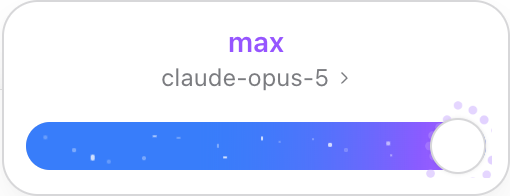
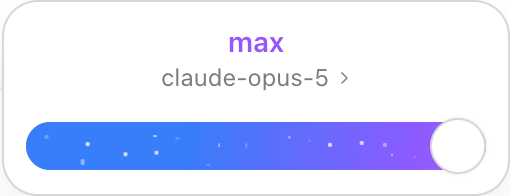
fix: 完善 Codex 选择器的切换与关闭交互
选中模型后保留弹层并收缩回思考强度面板；模型列表入口显示模型及当前档位，滑杆入口固定显示“选择强度”。

调整圆胶囊悬停背景与各控件光标，补齐关闭动画；点击档位吸附 300ms，拖动滑块吸附 150ms，最高档位仅在切入时播放粒子扩散。

消除提交状态置灰和档位文字重新淡入，保留本地档位直至宿主确认，避免延迟投影造成闪烁与回跳。

升级至 0.4.7，15 项逻辑测试、延迟确认与失败回退检查，以及隔离 DSH 页面回归通过。

diff --git a/src/picker.jsx b/src/picker.jsx
@@ -62,32 +62,47 @@ function EffortSlider({levels, effort, busy, onSelect, modelName, onModels}) {
   const [hoveredTick, setHoveredTick] = useState(null), [thumbHovered, setThumbHovered] = useState(false);
   const thumb = useRef(null);
   useThumbSpring(thumb, thumbHovered || isDragging);
-  const dragging = useRef(false), draft = useRef(index);
-  useEffect(() => {if (!dragging.current) {setIndex(Math.max(0, hostIndex)); draft.current = Math.max(0, hostIndex);}}, [hostIndex, busy]);
+  const dragging = useRef(false), draft = useRef(index), committed = useRef(null);
+  useEffect(() => {
+    if (dragging.current || busy || committed.current !== null && hostIndex !== committed.current) return;
+    committed.current = null;
+    setIndex(Math.max(0, hostIndex)); draft.current = Math.max(0, hostIndex);
+  }, [hostIndex, busy]);
   const selected = levels[index];
   const highest = levels.length > 1 && index === levels.length - 1 && selected.id !== 'off' && selected.id !== undefined;
+  const wasHighest = useRef(highest), [burst, setBurst] = useState(false);
+  useEffect(() => {setBurst(highest && !wasHighest.current); wasHighest.current = highest;}, [highest]);
   const fraction = levels.length > 1 ? index / (levels.length - 1) : 0;
-  const commit = () => {if (levels[draft.current]?.id !== effort) onSelect(levels[draft.current].id);};
+  const commit = async () => {
+    const next = draft.current;
+    if (levels[next]?.id === effort) return;
+    committed.current = next;
+    if (!await onSelect(levels[next].id) && committed.current === next) {
+      committed.current = null;
+      setIndex(Math.max(0, hostIndex)); draft.current = Math.max(0, hostIndex);
+    }
+  };
   const title = dragging.current || hostIndex >= 0 ? selected.label : effort ?? 'Default';
   return <div className="dme-codex-effort" data-highest={highest || undefined} data-dragging={isDragging || undefined} data-minimum={index === 0 || undefined}>
     <button type="button" className="dme-model-link" onClick={onModels}>
-      <span className="dme-effort-title" aria-live="polite"><span key={title}>{title}</span></span>
+      <span className="dme-effort-title" aria-live="polite"><span>{title}</span></span>
       <span className="dme-current-model">{modelName}<Chevron/></span>
     </button>
     <div className="dme-slider" style={{'--dme-progress': fraction}}>
       <div className="dme-rail">
       <div className="dme-rail-fill"/>
-      {highest && <div className="dme-max-fill" aria-hidden="true"/>}
+      {highest && <div className="dme-max-fill" data-reveal={burst || undefined} aria-hidden="true"/>}
       <div className="dme-ticks" aria-hidden="true">{levels.map((level, n) => <i key={level.key} data-hovered={hoveredTick === n || undefined} data-filled={n <= index || undefined} style={{left: `${levels.length > 1 ? n / (levels.length - 1) * 100 : 0}%`}}/>)}</div>
       {highest && <div className="dme-particles" aria-hidden="true">{Array.from({length: 18}, (_, n) => <i key={n} style={{left: `${5 + (n * 37 % 89)}%`, top: `${20 + n * 23 % 60}%`, width: `${n % 5 === 0 ? 2.5 : 1.5}px`, height: `${n % 5 === 0 ? 2.5 : 1.5}px`, animationDelay: `${-n * .31}s`, animationDuration: `${2.4 + n % 4 * .6}s`}}/>)}</div>}
       </div>
-      {highest && <div className="dme-thumb-particles" aria-hidden="true">{Array.from({length: 16}, (_, n) => {
+      {highest && burst && <div className="dme-thumb-particles" aria-hidden="true">{Array.from({length: 16}, (_, n) => {
         const angle = n * Math.PI / 8 - Math.PI / 2, radius = n < 11 ? 34 : 24;
         return <i key={n} style={{'--spark-x': `${Math.cos(angle) * radius}px`, '--spark-y': `${Math.sin(angle) * radius}px`, animationDelay: `${n % 3 * 6}ms`}}/>;
       })}</div>}
       <div className="dme-slider-position" aria-hidden="true"><div ref={thumb} className="dme-slider-thumb"/></div>
       <input type="range" aria-label="思考强度" aria-valuetext={selected.label} min="0" max={levels.length - 1} step="1" value={index}
         disabled={busy || levels.length < 2}
+        style={{cursor: busy || levels.length < 2 ? 'default' : isDragging ? 'grabbing' : hoveredTick !== null ? 'pointer' : thumbHovered ? 'grab' : 'default'}}
         onPointerMove={e => {
           const bounds = e.currentTarget.getBoundingClientRect(), x = e.clientX - bounds.left;
           const tick = Math.round((x - 14) / (bounds.width - 28) * (levels.length - 1));
@@ -98,9 +113,14 @@ function EffortSlider({levels, effort, busy, onSelect, modelName, onModels}) {
           setHoveredTick(!overThumb && Math.abs(x - tickX) <= 8 ? tick : null);
         }}
         onPointerLeave={() => {setHoveredTick(null); setThumbHovered(false);}}
-        onPointerDown={e => {dragging.current = true; setDragging(true); e.currentTarget.setPointerCapture(e.pointerId);}}
+        onPointerDown={e => {
+          const bounds = thumb.current.getBoundingClientRect();
+          const fromThumb = e.clientX >= bounds.left - 3 && e.clientX <= bounds.right + 3;
+          dragging.current = fromThumb; setDragging(fromThumb);
+          e.currentTarget.setPointerCapture(e.pointerId);
+        }}
         onChange={e => {draft.current = Number(e.target.value); setIndex(draft.current); if (!dragging.current) commit();}}
-        onPointerUp={() => {dragging.current = false; setDragging(false); commit();}}
+        onPointerUp={() => {if (dragging.current) {dragging.current = false; setDragging(false); commit();}}}
         onPointerCancel={() => {dragging.current = false; setDragging(false); setIndex(Math.max(0, hostIndex)); draft.current = Math.max(0, hostIndex);}}
         onBlur={() => {if (dragging.current) {dragging.current = false; setDragging(false); commit();}}}/>
     </div>
@@ -110,34 +130,57 @@ function EffortSlider({levels, effort, busy, onSelect, modelName, onModels}) {
 export function CodexPicker({locked, available, directory, load, select}) {
   const state = useSyncExternalStore(fn => directory.subscribe(fn), () => directory.getSnapshot());
   const {choices, current, levels, effort, label} = pickerModel(state);
-  const [open, setOpen] = useState(false), [pane, setPane] = useState('root'), [query, setQuery] = useState('');
+  const [popupState, setPopupState] = useState('closed'), [pane, setPane] = useState('root'), [query, setQuery] = useState('');
+  const open = popupState === 'open', mounted = popupState !== 'closed';
+  const popupStateRef = useRef(popupState); popupStateRef.current = popupState;
   const [error, setError] = useState('');
   const trigger = useRef(null), panel = useRef(null), content = useRef(null), id = useId();
   const [height, setHeight] = useState(null);
   const busy = locked || state.pending !== null;
   const failures = state.failures ?? [];
   const loadError = state.error?.message;
-  const close = (focus = true) => {setOpen(false); if (focus) trigger.current?.focus();};
-  const position = usePopover(open, pane, trigger, panel, close);
+  const close = (focus = true) => {
+    if (popupStateRef.current !== 'open') return;
+    const style = getComputedStyle(panel.current);
+    panel.current.style.setProperty('--dme-close-opacity', style.opacity);
+    panel.current.style.setProperty('--dme-close-scale', new DOMMatrix(style.transform).a);
+    setPopupState('closing');
+    if (focus) trigger.current?.focus();
+  };
+  const position = usePopover(mounted, pane, trigger, panel, close);
+  useEffect(() => {
+    if (popupState !== 'closing') return;
+    const reduced = matchMedia('(prefers-reduced-motion: reduce)');
+    const finish = () => {if (reduced.matches) setPopupState('closed');};
+    finish(); reduced.addEventListener('change', finish);
+    return () => reduced.removeEventListener('change', finish);
+  }, [popupState]);
   useEffect(() => {if (available) load();}, [directory, available]);
   useEffect(() => {if (locked || !available) close(false);}, [locked, available]);
   const commit = async (selection, keepOpen = false) => {
     setError('');
     try {
       const result = await select(selection);
-      if (result?.ok === false) {setError(result.error.message); return;}
+      if (result?.ok === false) {setError(result.error.message); return false;}
       if (!keepOpen) close();
-    } catch (e) {setError(e.message);}
+      return true;
+    } catch (e) {setError(e.message); return false;}
   };
   const selectEffort = value => {
-    if (!current || busy) return;
-    commit({provider: current.provider, model: current.model.id,
+    if (!current || busy) return false;
+    return commit({provider: current.provider, model: current.model.id,
       ...(value === undefined ? {} : {reasoningEffort: value})}, true);
+  };
+  const selectModel = async choice => {
+    if (!await commit(modelSelection(choice), true) || popupStateRef.current !== 'open') return;
+    if (choice.model.reasoning) {setPane('root'); setQuery('');}
+    else close();
   };
   const modelPane = pane === 'models' || !levels.length;
   const visible = choices.filter(choice => `${choice.model.name} ${choice.model.id} ${choice.providerName}`.toLowerCase().includes(query.toLowerCase()));
   useLayoutEffect(() => {
-    if (!open) {setHeight(null); return;}
+    if (!mounted) {setHeight(null); return;}
+    if (!open) return;
     const measure = () => {
       const computed = getComputedStyle(panel.current);
       const padding = parseFloat(computed.paddingTop) + parseFloat(computed.paddingBottom)
@@ -157,7 +200,7 @@ export function CodexPicker({locked, available, directory, load, select}) {
     const observer = new ResizeObserver(measure);
     for (const element of content.current.querySelectorAll('.dme-codex-effort,.dme-model-header,.dme-model-list,.dme-picker-error')) observer.observe(element);
     return () => observer.disconnect();
-  }, [open, modelPane, choices.length, query, error, loadError, failures.length]);
+  }, [mounted, open, modelPane, choices.length, query, error, loadError, failures.length]);
   useLayoutEffect(() => {
     if (open && modelPane) content.current.querySelector('.dme-model-list').scrollTop = 0;
   }, [open, pane]);
@@ -192,11 +235,14 @@ export function CodexPicker({locked, available, directory, load, select}) {
   };
   return <>
     <button ref={trigger} type="button" className="dme-picker-trigger dme-picker-codex" aria-label={`选择模型 ${current?.model.name ?? ''} ${label}`.trim()}
-      aria-expanded={open} aria-controls={open ? id : undefined} aria-haspopup="dialog" disabled={busy || !available}
-      onClick={() => {setOpen(!open); setPane('root'); setQuery(''); setError(''); if (!open) load();}}>
-      <span>{current?.model.name ?? '选择模型'}</span>{label && <span className="dme-trigger-effort">{label}</span>}<Chevron/>
+      data-open={mounted || undefined} data-placeholder={mounted && !modelPane || undefined} aria-busy={state.pending !== null} aria-expanded={open} aria-controls={open ? id : undefined} aria-haspopup="dialog" disabled={locked || !available}
+      onClick={() => {open ? close(false) : setPopupState('open'); if (!open) {setPane('root'); setQuery(''); setError(''); load();}}}>
+      <span hidden={mounted && !modelPane}>{current?.model.name ?? '选择模型'}</span>{label && <span hidden={mounted && !modelPane} className="dme-trigger-effort">{label}</span>}
+      {mounted && !modelPane && <span className="dme-trigger-placeholder">选择强度</span>}<Chevron/>
     </button>
-    {open && createPortal(<div ref={panel} id={id} className="dme-picker-panel dme-picker-codex" role="dialog" aria-label="模型与思考强度"
+    {mounted && createPortal(<div ref={panel} id={id} className="dme-picker-panel dme-picker-codex" role="dialog" aria-label="模型与思考强度"
+      data-state={popupState} aria-busy={!locked && state.pending !== null} aria-hidden={!open} inert={!open}
+      onAnimationEnd={e => {if (e.target === e.currentTarget && e.animationName === 'dme-popup-out') setPopupState(state => state === 'closing' ? 'closed' : state);}}
       data-pane={modelPane ? 'models' : pane} style={{...(position ?? {visibility: 'hidden'}), ...(height === null ? {} : {height})}} onKeyDown={onKeyDown}>
       <div ref={content} className="dme-picker-content"><div className="dme-picker-views">
         <div className="dme-picker-pane dme-picker-root" data-active={!modelPane} aria-hidden={modelPane} inert={modelPane}>
@@ -211,7 +257,7 @@ export function CodexPicker({locked, available, directory, load, select}) {
           <div className="dme-model-list" role="menu" aria-label="模型">
             {visible.map(choice => <button type="button" key={JSON.stringify([choice.provider, choice.model.id])} role="menuitemradio"
               aria-label={choice.model.name} aria-description={choice.providerName || choice.provider}
-              aria-checked={choice.selected} disabled={busy} onClick={() => commit(modelSelection(choice))}>
+              aria-checked={choice.selected} disabled={busy} onClick={() => {setPane('models'); selectModel(choice);}}>
               <span className="dme-model-name">{choice.model.name}
                 <small>{choice.providerName || choice.provider}</small>
               </span>{choice.selected && <Check/>}

diff --git a/src/styles.css b/src/styles.css
@@ -14,15 +14,15 @@
 .dme-segmented{display:flex;gap:2px;border-radius:10px;background:color-mix(in srgb,currentColor 6%,transparent);padding:3px}.dme-segmented label{position:relative;cursor:pointer}.dme-segmented input{position:absolute;opacity:0;width:100%;height:100%;margin:0}.dme-segmented span{display:block;padding:7px 14px;border-radius:8px;font-size:13px}.dme-segmented input:checked+span{background:var(--ds-color-background-elevated,#fff);box-shadow:0 1px 4px #00000014}.dme-segmented input:focus-visible+span{outline:2px solid #387df8;outline-offset:1px}
 
 .dme-picker-trigger,.dme-picker-panel{--dmp-text:#161719;--dmp-muted:#7b7c80;--dmp-surface:#fff;--dmp-border:#d7d7d9;--dmp-hover:#f3f3f4;--dmp-track:#e9e9eb;--dmp-accent:#387dfa;box-sizing:border-box;color:var(--dmp-text);font-family:-apple-system,BlinkMacSystemFont,"Segoe UI",sans-serif}
-.dme-picker-trigger{display:inline-flex;align-items:center;gap:4px;max-width:360px;border:0;background:transparent;padding:4px 5px;font-size:13px;line-height:20px;cursor:default;border-radius:6px}.dme-picker-trigger>span:first-child{overflow:hidden;white-space:nowrap;text-overflow:ellipsis}.dme-picker-trigger .dme-chevron{transform:rotate(90deg);margin-left:2px;width:10px;height:10px;color:var(--dmp-muted)}.dme-trigger-effort{color:var(--dmp-muted);flex:none}.dme-picker-trigger:hover{background:var(--dmp-hover)}
+.dme-picker-trigger{display:inline-flex;align-items:center;gap:4px;max-width:360px;border:0;background:transparent;padding:4px 5px;font-size:13px;line-height:20px;cursor:pointer;border-radius:999px;padding:4px 10px;transition:background-color .12s ease}.dme-picker-trigger>span:first-child{overflow:hidden;white-space:nowrap;text-overflow:ellipsis}.dme-picker-trigger .dme-chevron{transform:rotate(90deg);margin-left:2px;width:10px;height:10px;color:var(--dmp-muted)}.dme-trigger-effort{color:var(--dmp-muted);flex:none}.dme-picker-trigger:not(:disabled):hover{background:var(--dmp-hover)}
 .dme-chevron,.dme-check{flex:none;fill:none;stroke:currentColor;stroke-linecap:round;stroke-linejoin:round;stroke-width:1.5}.dme-check{color:var(--dmp-muted)}
 .dme-picker-panel{position:fixed;z-index:1200;width:min(254px,calc(100vw - 24px));border:.5px solid var(--dmp-border);border-radius:18px;background:var(--dmp-surface);box-shadow:0 8px 18px #00000010;overflow:hidden;padding:8px;isolation:isolate}.dme-picker-content{display:flex;flex-direction:column;height:100%;min-height:0}.dme-picker-views{position:relative;flex:1;min-height:0;overflow:clip}.dme-picker-pane{position:absolute;inset:0 0 auto;opacity:1;translate:0}.dme-picker-models{height:100%;display:flex;flex-direction:column}.dme-picker-pane[data-active=false]{pointer-events:none;opacity:0}.dme-picker-root[data-active=false]{translate:0 -10px}.dme-picker-models[data-active=false]{translate:0 10px}.dme-model-header{flex:none}.dme-model-list{flex:1;min-height:0;overflow-y:auto;overscroll-behavior:contain;scrollbar-width:none}.dme-model-list::-webkit-scrollbar{display:none;width:0;height:0}
-.dme-picker-panel *{box-sizing:border-box}.dme-picker-panel button{color:inherit;font:inherit;cursor:default}.dme-picker-panel button:disabled,.dme-picker-trigger:disabled{cursor:default;opacity:.5}.dme-picker-panel button:focus-visible,.dme-picker-trigger:focus-visible{outline:2px solid var(--dmp-accent,#387dfa);outline-offset:1px}
+.dme-picker-panel *{box-sizing:border-box}.dme-picker-panel button{color:inherit;font:inherit;cursor:pointer}.dme-picker-panel button:disabled,.dme-picker-trigger:disabled{cursor:default;opacity:.5}.dme-picker-panel button:focus-visible,.dme-picker-trigger:focus-visible{outline:2px solid var(--dmp-accent,#387dfa);outline-offset:1px}
 .dme-codex-effort{padding:0 3px 2px}.dme-effort-title{text-align:center;color:var(--dmp-accent);font-size:14px;line-height:20px;font-weight:600}.dme-model-link{display:flex;flex-direction:column;align-items:center;justify-content:center;max-width:100%;margin:0 auto;padding:2px 8px;border:0;border-radius:6px;background:transparent;transition:background-color .12s ease}.dme-model-link:hover,.dme-model-link:focus-visible{background:var(--dmp-hover)}.dme-current-model{display:flex;align-items:center;justify-content:center;gap:3px;max-width:100%;font-size:12px;line-height:16px;color:var(--dmp-muted);white-space:nowrap;overflow:hidden;text-overflow:ellipsis}.dme-model-link .dme-chevron{width:8px;height:8px}
 .dme-slider{position:relative;height:28px;margin-top:10px;--dme-motion:.3s cubic-bezier(.23,1,.32,1)}.dme-rail{position:absolute;inset:2px 0;height:24px;border-radius:12px;background:var(--dmp-track);box-shadow:inset 0 0 0 .5px #00000014;overflow:hidden}.dme-rail-fill{position:absolute;inset:0 auto 0 0;width:calc(14px + (100% - 28px)*var(--dme-progress));border-radius:12px 0 0 12px;background:var(--dmp-accent);transition:width var(--dme-motion)}
 .dme-ticks{position:absolute;inset:0 14px;pointer-events:none}.dme-ticks i{position:absolute;top:50%;width:4px;height:4px;border-radius:50%;background:#b4b4b8;transform:translate(-50%,-50%);transition:transform .12s ease,filter .12s ease,background-color var(--dme-motion)}.dme-ticks i[data-filled]{background:#ffffff55}.dme-ticks i[data-hovered]{filter:brightness(.85);transform:translate(-50%,-50%) scale(2)}
 .dme-slider input{appearance:none;-webkit-appearance:none;position:absolute;inset:0;width:100%;height:28px;background:transparent;margin:0;cursor:default;touch-action:none;border:0;outline:none;border-radius:12px}.dme-slider input::-webkit-slider-runnable-track{height:24px;background:transparent}.dme-slider input::-webkit-slider-thumb{appearance:none;-webkit-appearance:none;width:28px;height:28px;margin-top:-2px;background:transparent;border:0;box-shadow:none}.dme-slider input::-moz-range-track{height:24px;background:transparent}.dme-slider input::-moz-range-thumb{width:28px;height:28px;background:transparent;border:0;box-shadow:none}.dme-slider input:focus-visible{outline:none}.dme-slider:has(input:focus-visible) .dme-slider-thumb{outline:2px solid var(--dmp-accent);outline-offset:0}.dme-slider input:disabled{cursor:default}.dme-codex-effort[data-dragging] .dme-slider{--dme-motion:.15s cubic-bezier(.23,1,.32,1);cursor:grabbing}.dme-codex-effort[data-dragging] .dme-slider input{cursor:grabbing}
-.dme-codex-effort[data-highest] .dme-effort-title{color:#9655ff}.dme-codex-effort[data-highest] .dme-rail-fill{width:100%}.dme-max-fill{position:absolute;inset:0;border-radius:12px;background:linear-gradient(100deg,#387dfa 8%,#387dfa 35%,#8e5aff 85%,#a567ff);mask-image:linear-gradient(90deg,transparent calc(var(--dme-reveal) - 120px),#000 var(--dme-reveal));animation:dme-max-reveal 2s both}.dme-codex-effort[data-highest] .dme-ticks{opacity:0}
+.dme-codex-effort[data-highest] .dme-effort-title{color:#9655ff}.dme-codex-effort[data-highest] .dme-rail-fill{width:100%}.dme-max-fill{position:absolute;inset:0;border-radius:12px;background:linear-gradient(100deg,#387dfa 8%,#387dfa 35%,#8e5aff 85%,#a567ff);mask-image:linear-gradient(90deg,transparent calc(var(--dme-reveal) - 120px),#000 var(--dme-reveal))}.dme-max-fill[data-reveal]{animation:dme-max-reveal 2s both}.dme-codex-effort[data-highest] .dme-ticks{opacity:0}
 .dme-particles{position:absolute;inset:0;overflow:hidden;border-radius:12px;pointer-events:none}.dme-particles i{position:absolute;display:block;border-radius:50%;background:white;opacity:.65;animation:dme-spark 3s ease-in-out infinite}
 .dme-thumb-particles{position:absolute;left:calc(14px + (100% - 28px)*var(--dme-progress));top:50%;pointer-events:none}.dme-thumb-particles i{position:absolute;width:5px;height:5px;border-radius:50%;background:#be9bff;animation:dme-thumb-spark .62s cubic-bezier(.25,1,.5,1) both}
 @keyframes dme-thumb-spark{0%{opacity:0;transform:translate(-50%,-50%) scale(.25)}22%{opacity:1;transform:translate(-50%,-50%) scale(1.28)}100%{opacity:0;transform:translate(calc(-50% + var(--spark-x)),calc(-50% + var(--spark-y))) scale(.55)}}
@@ -33,15 +33,24 @@
 body[data-ds-dark-theme] .dme-picker-trigger,body[data-ds-dark-theme] .dme-picker-panel{--dmp-text:#eeeef0;--dmp-muted:#a3a3a8;--dmp-surface:#252527;--dmp-border:#444449;--dmp-hover:#333336;--dmp-track:#444448}
 body[data-ds-dark-theme] .dme-segmented input:checked+span{background:#39393c}
 @media(max-width:600px){.dme-setting-row{align-items:flex-start;flex-direction:column;gap:12px;padding:16px 0}.dme-setting-row:last-child{flex-direction:row;align-items:center}.dme-picker-trigger{max-width:240px}}
-@media(prefers-reduced-motion:reduce){.dme-particles i,.dme-thumb-particles i,.dme-max-fill{animation:none}.dme-thumb-particles{display:none}}
+@media(prefers-reduced-motion:reduce){.dme-particles i,.dme-thumb-particles i,.dme-max-fill,.dme-max-fill[data-reveal]{animation:none}.dme-thumb-particles{display:none}}
 
 .dme-picker-panel{transform-origin:bottom center;animation:dme-popup-in .32s cubic-bezier(.23,1,.32,1) .03s both;transition:height .32s cubic-bezier(.19,1,.22,1),border-radius .32s cubic-bezier(.19,1,.22,1)}
 .dme-picker-trigger,.dme-picker-panel,.dme-picker-panel *{corner-shape:round}
 .dme-picker-panel.dme-picker-codex{border-color:var(--dmp-border);box-shadow:0 8px 20px #0000000d,0 1px 3px #00000003}.dme-picker-panel.dme-picker-codex[data-pane=models]{border-radius:16px}
-.dme-picker-pane{transition:opacity .2s cubic-bezier(.23,1,.32,1),translate .32s cubic-bezier(.19,1,.22,1)}.dme-picker-pane[data-active=true]{transition-delay:.04s}.dme-picker-heading{padding:3px 4px 9px;color:var(--dmp-muted);font-size:12px;line-height:16px}.dme-effort-title>span{display:inline-block;animation:dme-label-in .14s ease-out}
+.dme-picker-pane{transition:opacity .2s cubic-bezier(.23,1,.32,1),translate .32s cubic-bezier(.19,1,.22,1)}.dme-picker-pane[data-active=true]{transition-delay:.04s}.dme-picker-heading{padding:3px 4px 9px;color:var(--dmp-muted);font-size:12px;line-height:16px}.dme-effort-title>span{display:inline-block}
 .dme-slider-position{position:absolute;pointer-events:none;top:50%;left:calc(14px + (100% - 28px)*var(--dme-progress));transform:translate(-50%,-50%);width:28px;height:28px;transition:left var(--dme-motion)}.dme-slider-thumb{position:absolute;inset:0;border:.5px solid #d7d7d9;border-radius:50%;background:#fff;box-shadow:0 0 2px #0000001a}
+.dme-picker-panel[data-state=closing]{pointer-events:none;animation:dme-popup-out .14s cubic-bezier(.4,0,1,1) both}
+@keyframes dme-popup-out{from{opacity:var(--dme-close-opacity,1);transform:scale(var(--dme-close-scale,1))}to{opacity:0;transform:scale(.98)}}
 @keyframes dme-popup-in{from{opacity:0;transform:scale(.98)}to{opacity:1;transform:scale(1)}}
-@keyframes dme-label-in{from{opacity:.3;transform:translateY(3px)}to{opacity:1;transform:translateY(0)}}
-@media(prefers-reduced-motion:reduce){.dme-picker-panel,.dme-picker-pane,.dme-effort-title>span{animation:none}.dme-picker-panel,.dme-picker-pane,.dme-slider-position,.dme-rail-fill,.dme-ticks i{transition:none}}
+@media(prefers-reduced-motion:reduce){.dme-picker-panel,.dme-picker-panel[data-state=closing],.dme-picker-pane,.dme-effort-title>span{animation:none}.dme-picker-panel,.dme-picker-pane,.dme-slider-position,.dme-rail-fill,.dme-ticks i{transition:none}}
 
 .dme-model-header{background:var(--dmp-surface);z-index:1}.dme-model-list>button{flex:none}.dme-codex-effort[data-minimum] .dme-rail-fill{width:0}
+
+.dme-picker-trigger[data-open]{background:var(--dmp-hover)}.dme-picker-trigger[data-placeholder]{width:146px;justify-content:center;gap:12px;padding:4px 14px;border-radius:999px;background:var(--dmp-hover);color:var(--dmp-muted)}.dme-picker-trigger[data-placeholder] .dme-chevron{margin-left:auto}.dme-trigger-placeholder{flex:1;text-align:center}
+
+.dme-picker-panel{cursor:default}.dme-model-search{cursor:text}.dme-segmented input{cursor:pointer}
+
+.dme-settings [role=switch]:not(:disabled){cursor:pointer}.dme-settings [role=switch]:disabled{cursor:default}
+
+.dme-picker-panel[aria-busy=true] button:disabled,.dme-slider input:disabled{opacity:1}

diff --git a/docs/VERIFICATION.md b/docs/VERIFICATION.md
@@ -1,6 +1,6 @@
 # 验证记录
 
-日期：2026-10-12。插件：0.4.4。宿主：DeepSeek Harness 0.2.0-rc.2。
+日期：2026-10-12。插件：0.4.7。宿主：DeepSeek Harness 0.2.0-rc.2。
 
 ## 自动验证
 
@@ -12,9 +12,14 @@
 - 标签内的“设为默认”按钮、默认标签、折叠和重新打开后的状态。
 - DeepSeek 原生和 Codex 两种选择器的即时切换及插件禁用恢复。
 - Codex 滑杆的键盘和鼠标操作，按模型显示实际档位，最高档位粒子动画，排除 Ultra。
-- 254px 面板、24px 轨道和 28px 滑块。切档经过中间位置，正常吸附 300ms，拖动吸附 150ms；滑块悬停弹性放大至 32px，档位圆点放大为两倍，拖动光标为 grabbing。
+- 254px 面板、24px 轨道和 28px 滑块。切档经过中间位置，点击档位或键盘切档吸附 300ms，仅从滑块开始拖动时使用 150ms；滑块悬停弹性放大至 32px，档位圆点放大为两倍，拖动光标为 grabbing。
 - 面板打开 320ms、延迟 30ms；菜单切换使用淡入淡出、10px 位移和 320ms 高度过渡。展开过程中底边保持固定，未显示的面板不接收焦点或点击；档位与模型名称共用悬停背景。
-- 最高档位轨道渐变及持续粒子效果，滑块周围 16 个粒子扩散一次，620ms 后淡出；减少动态效果时关闭这些动画。
+- 滑杆和模型菜单关闭时保留面板，使用 140ms 淡出收缩后卸载；减少动态效果时立即关闭。
+- 选中支持思考强度的模型后，弹层保留并以 320ms 高度过渡回到滑杆；验证收缩过程中底边固定和新模型实际档位更新。
+- 思考强度面板打开期间，入口固定为 146px 的“选择强度”按钮，切换档位前后验证入口和面板位置不变；模型列表中恢复模型名称和当前档位，入口使用圆胶囊悬停背景。
+- 切档提交期间保持入口、模型行和滑杆亮度，档位标题保留同一文字节点；宿主清空 pending 后延迟推送新档位时，滑块不退回旧档位。失败时恢复原档位并显示错误。
+- 最高档位轨道渐变及持续粒子效果，切入时滑块周围 16 个粒子扩散一次，620ms 后淡出；重新打开不再播放扩散及渐变揭示动画。减少动态效果时关闭这些动画。
+- 入口、模型行、模型名称、档位圆点、样式单选和设置开关使用 pointer；滑块悬停为 grab、拖动为 grabbing，搜索框为 text，禁用控件为 default。
 - 两个界面选项显示在通用设置中，沿用 DSH 行式布局和原生开关；无独立 Tab 和额外外框。
 - 设置持久化、页面重载、编辑器 UI 独立开关；切换样式或关闭 UI 不写入模型配置。
 - Escape 返回上一级、关闭后恢复焦点、窄窗口布局、深色主题、减少动态效果。
@@ -25,7 +30,7 @@
 
 ## 桌面验证
 
-在已安装的 macOS DeepSeek Harness 中升级并重新启动插件，检查 Codex 选择器的实际显示。安装后核对插件文件与构建包一致，并比较升级前后的全部 LLM 渠道配置。
+0.4.7 已安装到 macOS DeepSeek Harness 桌面 profile。安装后逐一核对插件文件与构建包一致，并比较升级前后的全部 LLM 渠道配置。动态交互通过隔离 DSH web profile 验证；桌面窗口需重新启动后加载新版。
 
 尺寸、鼠标反馈和动画时序参考本机已安装 Codex 客户端的模型选择器资源。菜单和滑杆由本项目独立实现。
 

diff --git a/README.md b/README.md
@@ -43,7 +43,7 @@ npm pack
 | 样式 | 操作方式 |
 | --- | --- |
 | DeepSeek 默认 | 使用宿主原生的模型与推理等级菜单，首次安装默认选择此样式。 |
-| Codex | 点击输入框中的模型名称，拖动滑杆调整思考强度；点击面板内的模型名称切换模型。 |
+| Codex | 点击输入框中的模型名称，拖动滑杆调整思考强度；点击面板内的模型名称切换模型，选中后收回思考强度面板。 |
 
 <p>
   <img src="docs/assets/codex-effort.png" width="255" alt="Codex 思考强度滑杆">
@@ -52,7 +52,7 @@ npm pack
 
 Codex 选择器读取 DSH 模型目录中实际配置的档位，使用原生会话模型切换接口。档位名称直接显示英文值。最高档位的动画是一种视觉效果，不会增加 `Ultra` 档位。
 
-选择器包含面板展开、菜单切换和滑杆吸附动画。悬停滑块或档位圆点时会放大，拖动时显示抓取光标；最高档位显示渐变轨道和粒子扩散效果。支持键盘操作、模型搜索、深色主题和减少动态效果。
+选择器包含面板展开、关闭、菜单切换和滑杆吸附动画。思考强度面板打开期间，输入框中的入口固定显示“选择强度”，切档不会移动菜单；进入模型列表或关闭菜单后显示模型及当前档位。入口使用圆胶囊悬停背景。切档提交期间保持界面亮度和档位文字稳定。悬停滑块或档位圆点时会放大，并分别显示抓手或手形光标，拖动时显示抓取光标。最高档位显示渐变轨道，切入时播放一次粒子扩散；重新打开菜单不会重复播放。支持键盘操作、模型搜索、深色主题和减少动态效果。
 
 模型目录较长时显示搜索框；模型菜单最高 360px，只有模型列表滚动，标题和搜索框固定。各模型下方显示所属渠道。列表不显示滚动条；滑杆面板的档位与模型名称使用统一的悬停背景。未配置思考能力的模型只显示模型列表。
 
